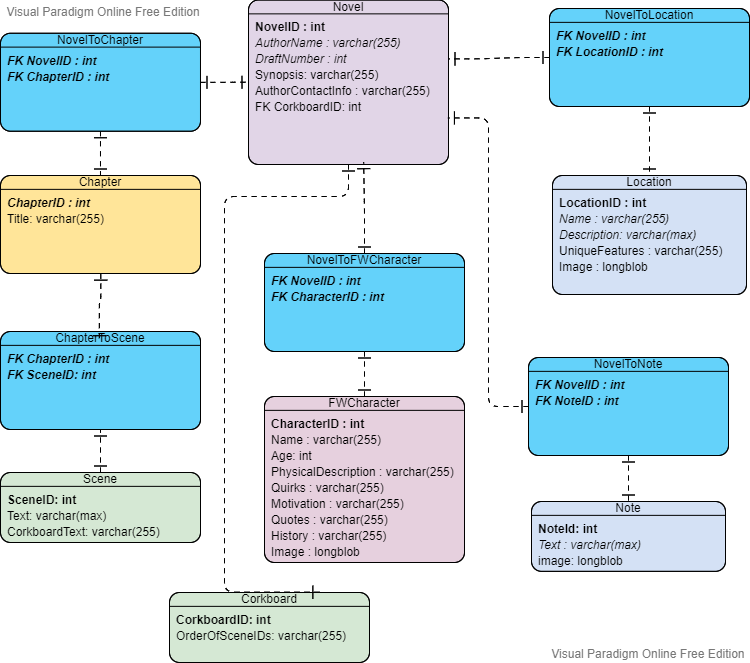
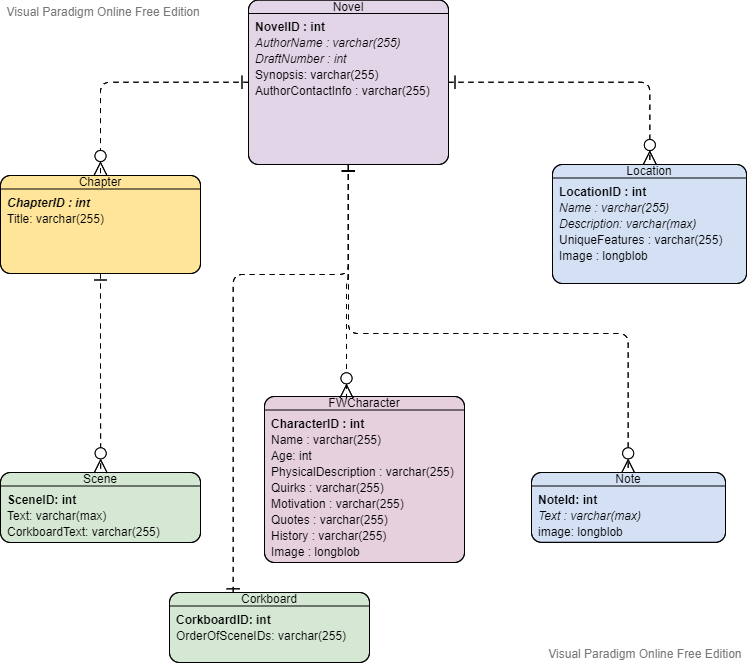
novel DAO and diagram update

diff --git a/src/main/java/com/mihaialexandruteodor/FeatherWriter/model/Novel.java b/src/main/java/com/mihaialexandruteodor/FeatherWriter/model/Novel.java
@@ -1,0 +1,64 @@
+package com.mihaialexandruteodor.FeatherWriter.model;
+
+import javax.persistence.*;
+
+@Entity
+@Table(name = "novel")
+public class Novel {
+
+    @Id
+    @GeneratedValue(strategy =  GenerationType.SEQUENCE)
+    private int novelID;
+
+    @Column(name = "authorname")
+    private String authorName;
+
+    @Column(name = "draftnumber")
+    private int draftNumber;
+
+    @Column(name = "synopsis")
+    private String synopsis;
+
+    @Column(name = "authorcontactinfo")
+    private String authorContactInfo;
+
+    public int getNovelID() {
+        return novelID;
+    }
+
+    public void setNovelID(int novelID) {
+        this.novelID = novelID;
+    }
+
+    public String getAuthorName() {
+        return authorName;
+    }
+
+    public void setAuthorName(String authorName) {
+        this.authorName = authorName;
+    }
+
+    public int getDraftNumber() {
+        return draftNumber;
+    }
+
+    public void setDraftNumber(int draftNumber) {
+        this.draftNumber = draftNumber;
+    }
+
+    public String getSynopsis() {
+        return synopsis;
+    }
+
+    public void setSynopsis(String synopsis) {
+        this.synopsis = synopsis;
+    }
+
+    public String getAuthorContactInfo() {
+        return authorContactInfo;
+    }
+
+    public void setAuthorContactInfo(String authorContactInfo) {
+        this.authorContactInfo = authorContactInfo;
+    }
+}

diff --git a/src/main/java/com/mihaialexandruteodor/FeatherWriter/services/NovelServiceImpl.java b/src/main/java/com/mihaialexandruteodor/FeatherWriter/services/NovelServiceImpl.java
@@ -1,0 +1,43 @@
+package com.mihaialexandruteodor.FeatherWriter.services;
+
+import com.mihaialexandruteodor.FeatherWriter.model.Novel;
+import com.mihaialexandruteodor.FeatherWriter.repository.NovelRepository;
+import org.springframework.beans.factory.annotation.Autowired;
+import org.springframework.stereotype.Service;
+
+import java.util.List;
+import java.util.Optional;
+
+@Service
+public class NovelServiceImpl implements  NovelService{
+
+    @Autowired
+    private NovelRepository novelRepository;
+
+    @Override
+    public List<Novel> getAllNovels() {
+        return this.novelRepository.findAll();
+    }
+
+    @Override
+    public void saveNovel(Novel novel) {
+        this.novelRepository.save(novel);
+    }
+
+    @Override
+    public Novel getNovelById(int id) {
+        Optional<Novel> optional = novelRepository.findById(id);
+        Novel novel = null;
+        if (optional.isPresent()) {
+            novel = optional.get();
+        } else {
+            throw new RuntimeException(" Novel not found for id :: " + id);
+        }
+        return novel;
+    }
+
+    @Override
+    public void deleteNovelById(int id) {
+        this.novelRepository.deleteById(id);
+    }
+}

diff --git a/src/main/java/com/mihaialexandruteodor/FeatherWriter/controllers/NovelController.java b/src/main/java/com/mihaialexandruteodor/FeatherWriter/controllers/NovelController.java
@@ -1,0 +1,17 @@
+package com.mihaialexandruteodor.FeatherWriter.controllers;
+
+import com.mihaialexandruteodor.FeatherWriter.services.NovelService;
+import org.springframework.beans.factory.annotation.Autowired;
+import org.springframework.web.bind.annotation.RestController;
+
+@RestController
+public class NovelController {
+
+    @Autowired
+    private NovelService novelService;
+
+    @Autowired
+    public NovelController(NovelService novelService) {
+        this.novelService = novelService;
+    }
+}

diff --git a/src/main/java/com/mihaialexandruteodor/FeatherWriter/repository/NovelRepository.java b/src/main/java/com/mihaialexandruteodor/FeatherWriter/repository/NovelRepository.java
@@ -1,0 +1,9 @@
+package com.mihaialexandruteodor.FeatherWriter.repository;
+
+import com.mihaialexandruteodor.FeatherWriter.model.Novel;
+import org.springframework.data.jpa.repository.JpaRepository;
+import org.springframework.stereotype.Repository;
+
+@Repository
+public interface NovelRepository extends JpaRepository<Novel, Integer> {
+}

diff --git a/src/main/java/com/mihaialexandruteodor/FeatherWriter/services/NovelService.java b/src/main/java/com/mihaialexandruteodor/FeatherWriter/services/NovelService.java
@@ -1,0 +1,12 @@
+package com.mihaialexandruteodor.FeatherWriter.services;
+
+import com.mihaialexandruteodor.FeatherWriter.model.Novel;
+
+import java.util.List;
+
+public interface NovelService {
+    List<Novel> getAllNovels();
+    void saveNovel(Novel novel);
+    Novel getNovelById(int id);
+    void deleteNovelById(int id);
+}
